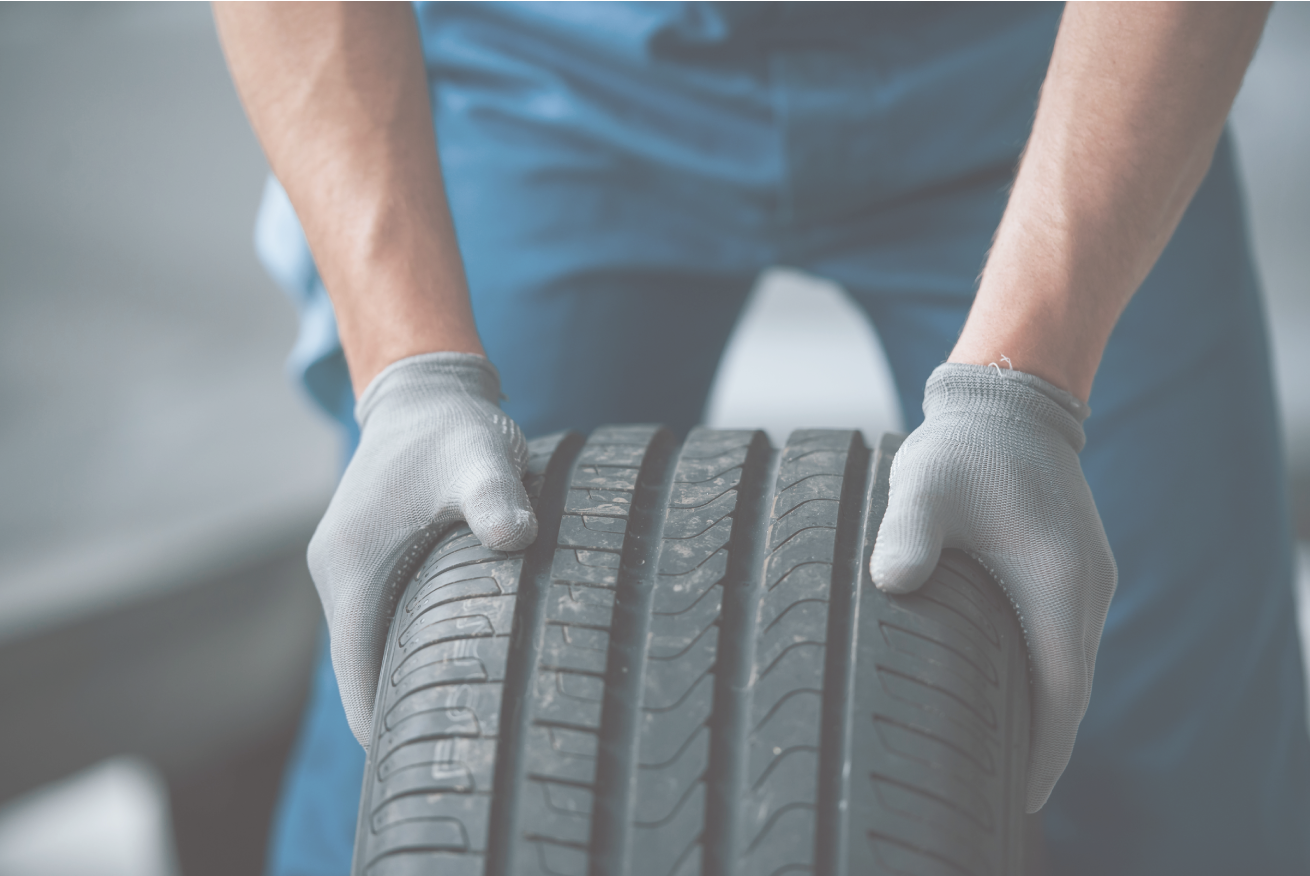
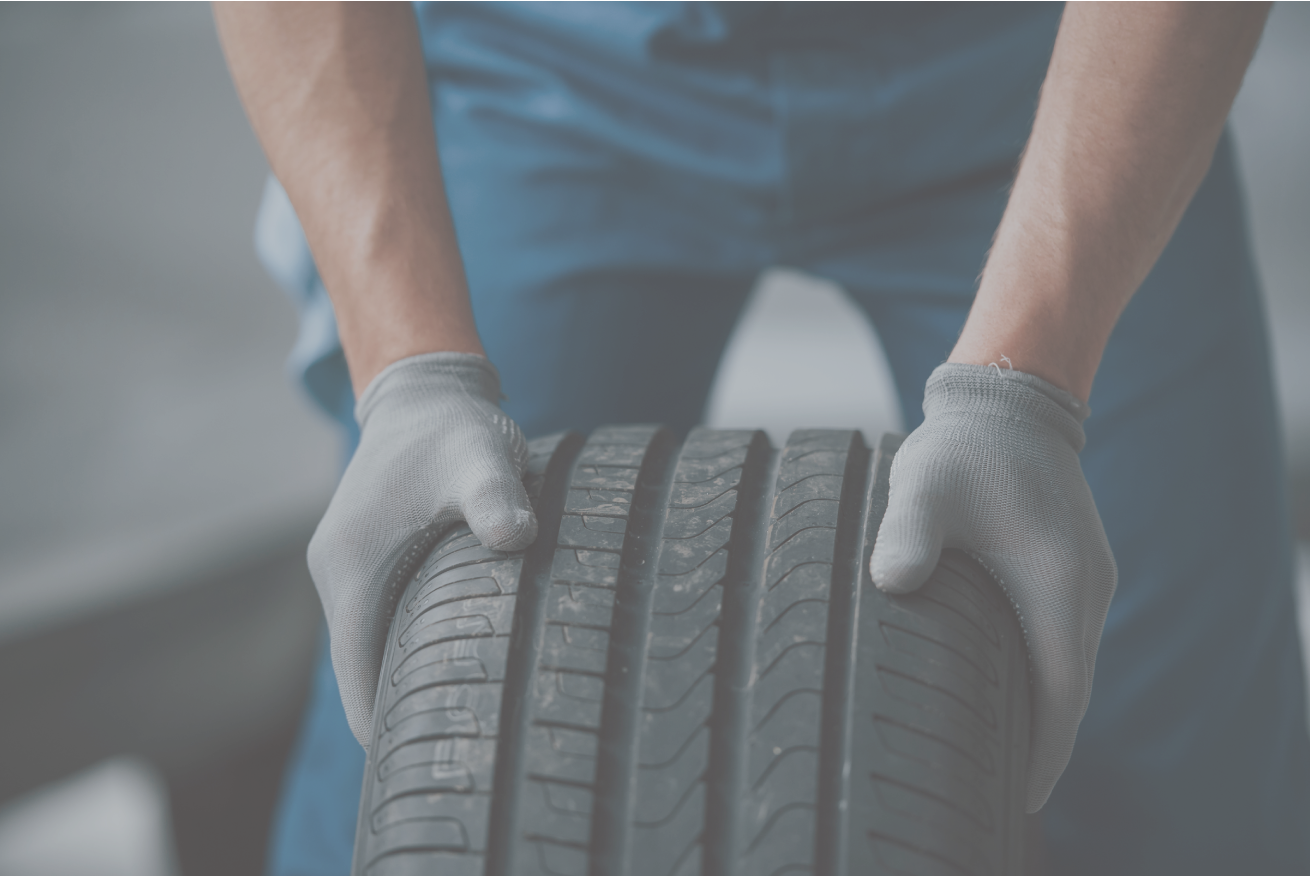
Zadnji dio stranice

diff --git a/src/App.vue b/src/App.vue
@@ -41,7 +41,7 @@
     </nav>
     <!-- End Navbar -->
 
-    <div class="flex items-center pt-14">
+    <div class="flex items-center justify-end pt-14">
       <div class="w-11/12 space-y-5 md:space-y-10">
         <h3
           class="hello-button text-gray-700 w-fit md:py-3 md:px-5 py-1 px-2 rounded-lg 3xl:text-3xl 2xl:text-xl lg:text-xl md:text-md text-sm font-semibold font-work_sans"
@@ -81,69 +81,6 @@
       </div>
     </div>
   </div>
-
-  <!--
-
-  <div class="banner-4 space-y-10 pb-20" id="work">
-    <h3 class="heading3 my-5" style="color: white;">Pratite blog i pročitajte o dostupnim brendovima, robi i uslugama</h3>
-    <div class="card">
-      <div class="space-y-5 py-8 px-8 md:py-16 md:px-20 md:w-1/2">
-        <h4 class="project-title item">Gume Matador</h4>
-        <p class="font-work_sans pr-12">
-          Dizajnirane od strane matadora iz Španije hfiodhsaoifdoisajdoisajd dosajdoisajd  dosajdoisad dsaojdsaojdsa adoasjdosa
-        </p>
-        <button class=" submit-button-blog text-sky-800 font-bold text-2xl tracking-wider">
-          Pogledajte detaljnije
-        </button>
-      </div>
-      <div class="card-image  items-center justify-between ">
-        <img
-          class="object-cover w-full  h-72 md:h-96 px-2 py-2"
-          src="./assets/Matador.jpg"
-        />
-      </div>
-    </div>
-
-    <div class="card">
-      <div class="space-y-5 py-8 px-8 md:py-16 md:px-20 md:w-1/2">
-        <h4 class="project-title item">Gume LingLong</h4>
-        <p class="font-work_sans pr-12">
-          Ling long ćing ćong
-        </p>
-        <button class="submit-button-blog text-sky-800 font-bold text-2xl tracking-wider">
-          Više o ovim gumama
-        </button>
-      </div>
-      <div class="card-image items-center justify-between ">
-        <img
-          class="object-cover w-full h-72 md:h-96 px-2 py-2"
-          src="./assets/LingLong.jpeg"
-        />
-      </div>
-    </div>
-
-    <div class="card">
-      <div class="space-y-5 py-8 px-8 md:py-16 md:px-20 md:w-1/2">
-        <h4 class="project-title">Sheepify States</h4>
-        <p class="font-work_sans pr-12">
-          Designed some empty state screens in kawaii style for the popular
-          sheepify app.Tailwind lets you conditionally apply utility classes in
-          different states using variant modifiers. For example, use hover:gap-6
-          to only apply the gap-6 utility
-        </p>
-        <button class="submit-button-blog text-sky-800 font-bold text-2xl tracking-wider">
-          View Case Study
-        </button>
-      </div>
-      <div class="card-image">
-        <img
-          class="object-cover w-full h-72 md:h-96"
-          src="./assets/project1.png"
-        />
-      </div>
-    </div>
-  -->
-    
 
   <div class="banner-4 space-y-10 pb-20" id="work">
     <div v-for="stakva in blog" :key="stakva.idBlog">
@@ -218,25 +155,40 @@
         recognitions from some of the big and small award companies. Besides
         designing, I like to watch anime, read books and solve sudoku.
       </p>
-      <button class="text-sky-800 font-bold text-2xl tracking-wider" style="color: white;">
-        View Case Study
+      <button class="text-sky-800 font-bold text-2xl tracking-wider" style="color: red; text-decoration: underline;">
+        O nama
       </button>
     </div>
   </div>
 
-  <div class="banner-1 flex h-full items-center">
-    <div class="w-7/12 p-12">
-      <h2 class="text-gray-700 kraj md:text-6xl text-2xl font-Eczar mb-5 font-bold">
-        Javite nam se da zajedno izaberemo najbolje gume za vašeg metalnog ljubimca
-      </h2>
-      <a class="underline text-2xl text-blue-600 font-work_sans"
-        >📧 info@autoroom.ba</a
-      >
-      <a class="underline text-2xl text-blue-600 font-work_sans"
-        >📧 +38755588855</a
-      >
+  <div class="banner-1">
+
+    <!--
+    <div class="bg-white py-5" style="border-radius: 54px;">
+      <div class="space-y-4 grid place-items-center" style="font-size: xx-large;">
+        Naši partneri
+      </div>
+
     </div>
-    <div class="w-5/12 pr-28">
+    -->
+
+    <div class=" flex h-full items-center">
+      <div class="w-7/12 p-12">
+      <h2 class="text-white md:text-6xl text-2xl font-Eczar mb-0 font-bold">
+        Javite nam se da zajedno izaberemo najbolje gume za
+      </h2>
+      <h2 class="text-gray-700 kraj md:text-6xl text-2xl font-Eczar mb-5 font-bold">
+        vašeg metalnog ljubimca
+      </h2>
+
+      <a class="underline text-2xl text-white font-work_sans pr-5"
+        >info@autoroom.ba</a
+      >
+      <a class="underline text-2xl text-white font-work_sans"
+        >+38755588855</a
+      >
+      </div>
+      <div class="w-5/12 pr-28">
       <div class="flex flex-wrap justify-end gap-2">
         <button
           class="bg-gray-700 p-2 font-semibold text-white inline-flex items-center space-x-2 rounded"
@@ -314,6 +266,7 @@
             </g>
           </svg>
         </button>
+      </div>
       </div>
     </div>
   </div>

diff --git a/src/index.css b/src/index.css
@@ -6,7 +6,7 @@
 
 .banner-1 {
   @apply px-5 py-20 md:pt-10 3xl:px-36 2xl:px-36 xl:px-0 lg:px-0 md:px-0;
-  background-image: url("./assets/bg.jpg");
+  background-image: url("./assets/bg-30.png");
 }
 
 .banner-2 {
@@ -15,6 +15,7 @@
   background-size: 100%;
   background-repeat: no-repeat;
   background-position: center;
+  
 }
 .banner-3{
   @apply px-0 3xl:px-2 2xl:px-0 xl:px-0 lg:px-0 md:px-0;
